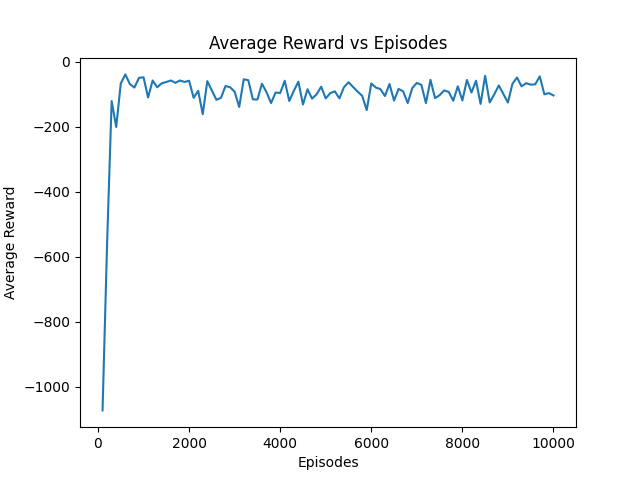
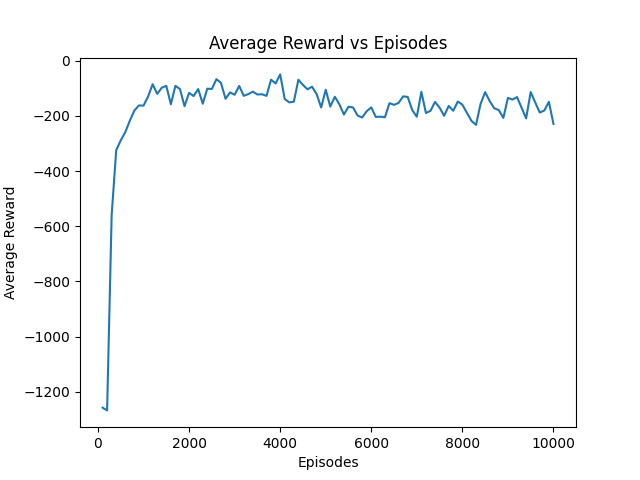
updating repo

diff --git a/core/environment/env.py b/core/environment/env.py
@@ -31,17 +31,24 @@ class CustomEnvironment(ParallelEnv):
         # self.person_x = random.randint(2, 5)
         # self.person_y = random.randint(2, 5)
 
-        self.person_x = 5
-        self.person_y = 5
+        self.person_x = 11
+        self.person_y = 12
 
         self.probability_matrix = [
-            [10, 10, 10, 10, 10, 10, 10],
-            [10, 10, 10, 10, 10, 10, 10],
-            [10, 10, 10, 10, 10, 10, 10],
-            [10, 10, 10, 10, 10, 10, 10],
-            [10, 10, 10, 10, 20, 10, 10],
-            [10, 10, 10, 10, 30, 50, 10],
-            [10, 10, 10, 10, 10, 30, 30],
+            [10, 10, 10, 10, 10, 10, 10, 10, 10, 10, 10, 10, 10, 10],
+            [10, 10, 10, 10, 10, 10, 10, 10, 10, 10, 10, 10, 10, 10],
+            [10, 10, 10, 10, 20, 10, 10, 10, 10, 10, 10, 10, 10, 10],
+            [10, 10, 10, 10, 20, 10, 10, 10, 10, 10, 10, 10, 10, 10],
+            [10, 10, 10, 10, 20, 10, 10, 10, 10, 10, 10, 10, 10, 10],
+            [10, 10, 10, 10, 30, 50, 10, 10, 10, 10, 10, 10, 10, 10],
+            [10, 10, 10, 10, 10, 80, 30, 10, 10, 10, 10, 10, 10, 10],
+            [10, 10, 10, 10, 10, 10, 30, 10, 10, 10, 10, 10, 10, 10],
+            [10, 10, 10, 10, 10, 10, 20, 10, 10, 10, 10, 10, 10, 10],
+            [10, 10, 10, 10, 10, 10, 10, 30, 10, 10, 10, 10, 10, 10],
+            [10, 10, 10, 10, 10, 10, 10, 10, 40, 50, 50, 10, 10, 10],
+            [10, 10, 10, 10, 10, 10, 10, 10, 10, 60, 60, 50, 10, 10],
+            [10, 10, 10, 10, 10, 10, 10, 10, 10, 70, 70, 90, 10, 10],
+            [10, 10, 10, 10, 10, 10, 10, 10, 10, 10, 10, 10, 10, 10],
         ]
 
         observation = (

diff --git a/train_simple_qlearning.py b/train_simple_qlearning.py
@@ -3,7 +3,7 @@ from core.environment.env import CustomEnvironment
 from config import Config
 
 
-env = CustomEnvironment(grid_size=7, render_mode="ansi")
+env = CustomEnvironment(grid_size=14, render_mode="ansi")
 
 observations = env.reset()
 env.reset()

diff --git a/test_simple_qlearning.py b/test_simple_qlearning.py
@@ -4,7 +4,7 @@ import numpy as np
 from core.environment.env import CustomEnvironment
 from config import Config
 
-env = CustomEnvironment(7)
+env = CustomEnvironment(14)
 
 try:
     qtable = load(open(Config.qtable_path, "rb"))
